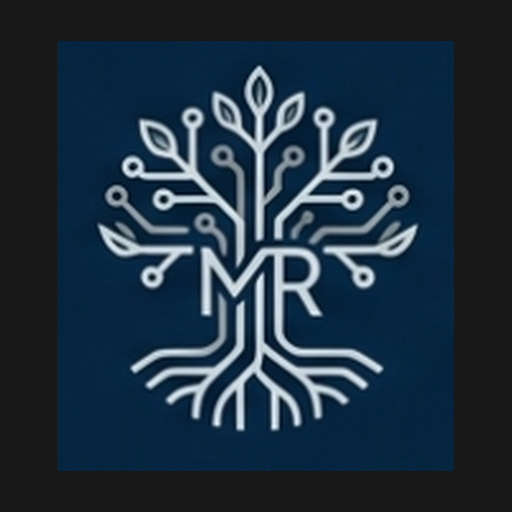
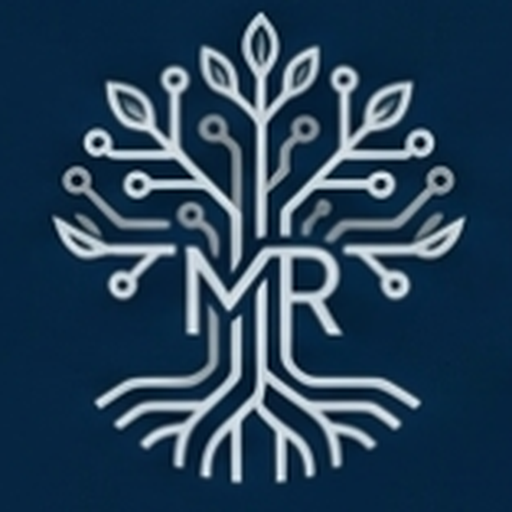
Refina icones e preview do site

diff --git a/index.html b/index.html
@@ -7,9 +7,18 @@
 <title>Marcos Técnico Informático</title>
 <!-- Pages rebuild 2026-07-04 18:00 BRT -->
 <link href="assets/img/favicon.png?v=20260704-2115" rel="icon" type="image/png"/>
-<link rel="manifest" href="/site.webmanifest"/>
-<link rel="apple-touch-icon" href="/assets/img/icon-192.png"/>
+<link rel="manifest" href="/site.webmanifest?v=20260707-1804"/>
+<link rel="apple-touch-icon" href="/assets/img/icon-192.png?v=20260707-1804"/>
 <meta name="theme-color" content="#181818"/>
+<meta property="og:type" content="website"/>
+<meta property="og:title" content="Marcos Técnico Informático"/>
+<meta property="og:description" content="Suporte técnico, redes, softwares e soluções com inteligência artificial."/>
+<meta property="og:image" content="https://marcosantoniorapado.com.br/assets/img/icon-512.png?v=20260707-1804"/>
+<meta property="og:url" content="https://marcosantoniorapado.com.br/"/>
+<meta name="twitter:card" content="summary"/>
+<meta name="twitter:title" content="Marcos Técnico Informático"/>
+<meta name="twitter:description" content="Suporte técnico, redes, softwares e soluções com inteligência artificial."/>
+<meta name="twitter:image" content="https://marcosantoniorapado.com.br/assets/img/icon-512.png?v=20260707-1804"/>
 
 <link href="assets/css/style.css?v=20260707-1709" rel="stylesheet"/>
 </head>